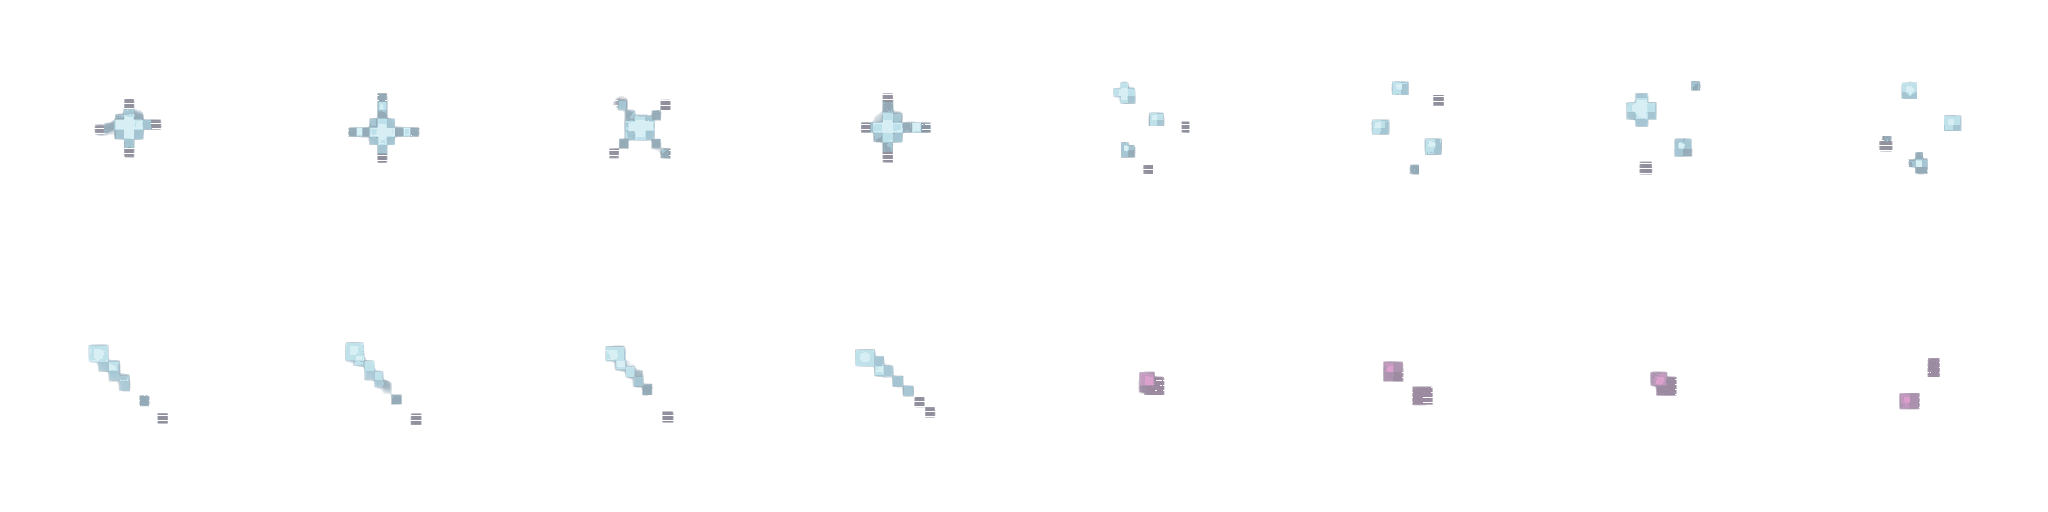
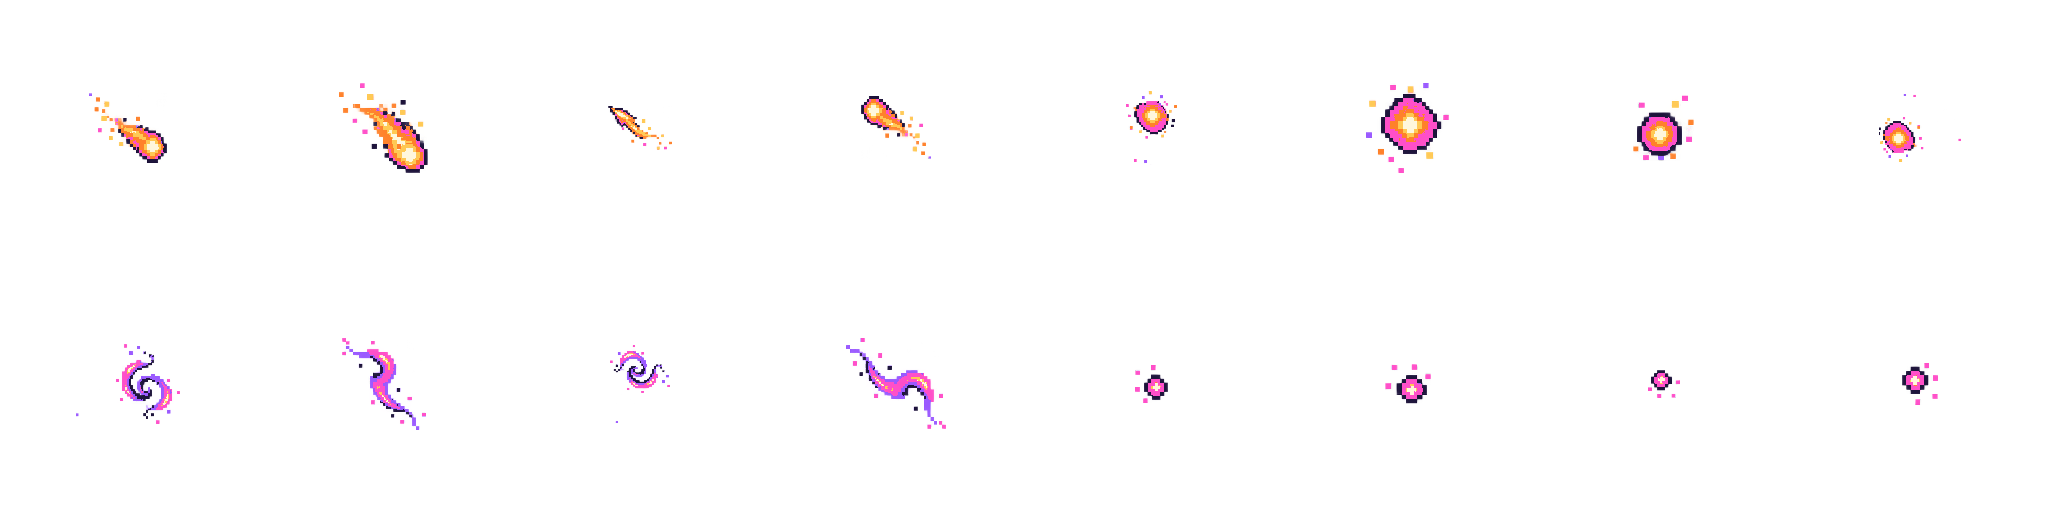
Space solar flare art from Codex (hazard and ambient sheets) replaces the placeholder

diff --git a/Pause/Assets/Art/Weather~/SpaceFlare/src~/build_space_flare.py b/Pause/Assets/Art/Weather~/SpaceFlare/src~/build_space_flare.py
@@ -1,0 +1,270 @@
+#!/usr/bin/env python3
+"""Build the generated/painted Space flare sheets at their gameplay contract.
+
+The source plates in candidates/ are image-generated painted pixel art.  This file
+only does nearest-neighbour pixel cleanup, palette locking, phase animation, cell
+composition, and seam-safe hand placement of additional arcs/sparks.
+"""
+from __future__ import annotations
+
+import math
+import random
+from pathlib import Path
+
+import numpy as np
+from PIL import Image, ImageDraw
+
+
+ROOT = Path(__file__).resolve().parent.parent
+CANDIDATES = Path(__file__).resolve().parent / "candidates"
+N = 512
+LEAD = 400
+AMBIENT_CELL = 256
+
+PALETTE = np.array(
+    [
+        (5, 6, 12),       # ink / deep indigo anchor
+        (26, 16, 56),      # deep indigo shade
+        (153, 87, 255),    # violet
+        (255, 77, 200),    # hot magenta
+        (255, 128, 40),    # orange
+        (255, 200, 82),    # gold
+        (255, 247, 220),   # white-hot
+    ],
+    dtype=np.float32,
+)
+HOT = (255, 247, 220, 255)
+GOLD = (255, 200, 82, 255)
+ORANGE = (255, 128, 40, 255)
+MAGENTA = (255, 77, 200, 255)
+VIOLET = (153, 87, 255, 255)
+INDIGO = (26, 16, 56, 255)
+
+
+def nearest_palette(im: Image.Image) -> Image.Image:
+    """Lock painted RGB to the Space ramp without interpolating pixels."""
+    a = np.array(im.convert("RGBA"), dtype=np.uint8)
+    rgb = a[..., :3].astype(np.float32)
+    # Weight luminance slightly so dark painted contouring survives the remap.
+    d = ((rgb[..., None, :] - PALETTE[None, None, :, :]) ** 2).sum(axis=3)
+    idx = d.argmin(axis=2)
+    out = PALETTE[idx].astype(np.uint8)
+    out[a[..., 3] == 0] = 0
+    out = np.dstack((out, a[..., 3]))
+    return Image.fromarray(out, "RGBA")
+
+
+def nearest_resize(im: Image.Image, size: tuple[int, int]) -> Image.Image:
+    return im.convert("RGBA").resize(size, Image.Resampling.NEAREST)
+
+
+def translate_no_wrap(im: Image.Image, dx: int, dy: int = 0) -> Image.Image:
+    src = np.array(im.convert("RGBA"), dtype=np.uint8)
+    out = np.zeros_like(src)
+    h, w = src.shape[:2]
+    x0, x1 = max(0, dx), min(w, w + dx)
+    sx0, sx1 = max(0, -dx), min(w, w - dx)
+    y0, y1 = max(0, dy), min(h, h + dy)
+    sy0, sy1 = max(0, -dy), min(h, h - dy)
+    if x1 > x0 and y1 > y0:
+        out[y0:y1, x0:x1] = src[sy0:sy1, sx0:sx1]
+    return Image.fromarray(out, "RGBA")
+
+
+def align_lead(im: Image.Image, target: int) -> Image.Image:
+    a = np.array(im, dtype=np.uint8)
+    col = (a[..., 3] > 190).sum(axis=0)
+    # Use the strongest vertical painted edge, not a stray spark.
+    current = int(np.argmax(col)) if col.max() else LEAD
+    return translate_no_wrap(im, target - current)
+
+
+def quantize_alpha(im: Image.Image, cap_tail: bool = True) -> Image.Image:
+    a = np.array(im, dtype=np.uint8)
+    alpha = a[..., 3].astype(np.int16)
+    # Stepped airy transparency; the lead is allowed to remain hard/opaque.
+    steps = np.array([0, 18, 30, 48, 72, 100, 132, 168, 205, 235, 255])
+    alpha = steps[np.abs(alpha[..., None] - steps[None, :]).argmin(axis=2)]
+    if cap_tail:
+        alpha[:, :385] = np.minimum(alpha[:, :385], 145)
+    a[..., 3] = alpha.astype(np.uint8)
+    return Image.fromarray(a, "RGBA")
+
+
+def seam(im: Image.Image) -> Image.Image:
+    """Make the one-pixel vertical tile join exact after all drawing."""
+    a = np.array(im.convert("RGBA"), dtype=np.uint8)
+    a[-1] = a[0]
+    return Image.fromarray(a, "RGBA")
+
+
+def wrapped_line(layer: Image.Image, points, fill, width=1):
+    """Draw a polyline in three vertical copies, then crop by the caller."""
+    d = ImageDraw.Draw(layer)
+    for off in (-N, 0, N):
+        d.line([(int(x), int(y + off)) for x, y in points], fill=fill, width=width, joint="curve")
+
+
+def add_painted_accents(base: Image.Image, frame: int, variant: int, warning: bool) -> Image.Image:
+    """Add designed, hard-edged phase accents around the generated plate."""
+    rng = random.Random(9000 + variant * 100 + frame * 17)
+    phase = frame / 6.0
+    lead = LEAD + round(8 * math.sin(2 * math.pi * (phase + .13)))
+    layer = Image.new("RGBA", (N, N * 3), (0, 0, 0, 0))
+
+    # Long looping magnetic arcs carry the motion through the whole seamless band.
+    arc_count = 7 if warning else (13 if variant == 0 else 17)
+    for i in range(arc_count):
+        y0 = (i + .37) * N / arc_count + rng.uniform(-10, 10)
+        length = rng.uniform(125, 285) if variant == 0 else rng.uniform(110, 230)
+        amp = rng.uniform(9, 25) * (1.0 if variant == 0 else .72)
+        freq = rng.choice((1.0, 1.5, 2.0, 2.5))
+        curl = rng.choice((-1.0, 1.0))
+        pts = []
+        for s in range(0, int(length) + 2, 3):
+            x = lead - s
+            y = y0 + amp * math.sin(2 * math.pi * (freq * s / max(length, 1) + phase * curl + i * .11))
+            pts.append((x, y % N))
+        if warning:
+            color = (255, 77, 200, 86 if i % 2 else 112)
+            width = 1
+        elif s < 70:
+            color = (255, 200, 82, 176)
+            width = 2
+        else:
+            color = ((255, 77, 200, 130) if i % 2 else (153, 87, 255, 112))
+            width = 2 if i % 3 else 1
+        wrapped_line(layer, pts, color, width)
+
+    # Flame-lick hooks immediately behind the shock sheet.
+    hooks = 3 if warning else (8 if variant == 0 else 11)
+    for i in range(hooks):
+        y0 = (i + .25) * N / hooks
+        pts = []
+        for s in range(0, 74 if variant == 0 else 58, 2):
+            x = lead - s
+            y = y0 + (10 + 5 * math.sin(i)) * math.sin(2 * math.pi * (s / 72 + phase + i * .15))
+            pts.append((x, y % N))
+        wrapped_line(layer, pts, (255, 128, 40, 130 if warning else 210), 2 if not warning else 1)
+
+    # A few stepped heat ripples in the air ahead of the front.
+    ripple_count = 2 if warning else 4
+    for i in range(ripple_count):
+        y0 = (i + .5) * N / ripple_count
+        pts = []
+        for s in range(0, 90, 4):
+            x = lead + 7 + s
+            y = y0 + 3 * math.sin(2 * math.pi * (s / 46 + phase + i * .4))
+            pts.append((x, y % N))
+        wrapped_line(layer, pts, (255, 247, 220, 48 if warning else 72), 1)
+
+    # Core: the only deliberately opaque feature in a normal frame.
+    pts = []
+    for y in range(0, N + 1, 3):
+        x = lead + 7 * math.sin(2 * math.pi * (y / N * 2 + phase))
+        pts.append((x, y % N))
+    if warning:
+        wrapped_line(layer, pts, (255, 247, 220, 105), 1)
+        wrapped_line(layer, [(x - 3, y) for x, y in pts], (255, 128, 40, 85), 1)
+    else:
+        wrapped_line(layer, [(x + 4, y) for x, y in pts], (255, 200, 82, 205), 4)
+        wrapped_line(layer, pts, HOT, 3 if variant == 0 else 2)
+
+    # Small sparks advance through a complete loop ahead of the shock.
+    spark_count = 10 if warning else (38 if variant == 0 else 27)
+    d = ImageDraw.Draw(layer)
+    for i in range(spark_count):
+        y = (i * 83 + frame * 29 + (i * i * 7)) % N
+        travel = (i * 19 + frame * 31) % 96
+        x = lead + 9 + travel
+        r = 1 if i % 4 else 2
+        alpha = 75 if warning else max(70, 210 - travel * 2)
+        col = (255, 247, 220, alpha) if i % 3 else (255, 200, 82, alpha)
+        for off in (-N, 0, N):
+            if i % 2:
+                d.rectangle((x - r, y + off - r, x + r, y + off + r), fill=col)
+            else:
+                d.point((x, y + off), fill=col)
+                d.point((x - 1, y + off), fill=col)
+                d.point((x, y + off - 1), fill=col)
+
+    # Crop the central wrapped copy and composite without smoothing.
+    accent = layer.crop((0, N, N, N * 2))
+    return Image.alpha_composite(base, accent)
+
+
+def flare_frame(source_name: str, frame: int, variant: int, warning=False) -> Image.Image:
+    src = Image.open(CANDIDATES / source_name).convert("RGBA")
+    src = nearest_resize(src, (N, N))
+    src = nearest_palette(src)
+    src = align_lead(src, LEAD + round(5 * math.sin(2 * math.pi * frame / 6 + variant)))
+    a = np.array(src, dtype=np.uint8)
+    # Keep image-generated tail airy while retaining hard paint at the shock.
+    if warning:
+        a[..., 3] = (a[..., 3].astype(np.float32) * .34).astype(np.uint8)
+    src = Image.fromarray(a, "RGBA")
+    src = add_painted_accents(src, frame, variant, warning)
+    src = quantize_alpha(src, cap_tail=True)
+    if warning:
+        # Warning is intentionally a thin preview, never a filled bar.
+        a = np.array(src, dtype=np.uint8)
+        a[..., 3] = (a[..., 3].astype(np.float32) * .78).astype(np.uint8)
+        src = Image.fromarray(a, "RGBA")
+    return seam(src)
+
+
+def trim_alpha(im: Image.Image) -> Image.Image:
+    a = np.array(im.convert("RGBA"), dtype=np.uint8)
+    ys, xs = np.where(a[..., 3] > 20)
+    if len(xs) == 0:
+        return im
+    return im.crop((int(xs.min()), int(ys.min()), int(xs.max() + 1), int(ys.max() + 1)))
+
+
+def ambient_particle(kind: int, variant: int) -> Image.Image:
+    src = Image.open(CANDIDATES / "ambient_painted.png").convert("RGBA")
+    # The selected generated candidate is a clean 3x3 painterly particle board.
+    boxes = {
+        0: [(170, 210, 520, 520), (520, 210, 900, 520), (850, 190, 1190, 510), (200, 190, 560, 500)],
+        1: [(170, 540, 540, 870), (520, 520, 900, 870), (850, 530, 1190, 870), (250, 520, 610, 860)],
+        2: [(130, 820, 570, 1160), (500, 800, 930, 1160), (140, 820, 570, 1160), (500, 800, 930, 1160)],
+        3: [(850, 820, 1150, 1090), (850, 820, 1150, 1090), (850, 820, 1150, 1090), (850, 820, 1150, 1090)],
+    }
+    piece = trim_alpha(src.crop(boxes[kind][variant]))
+    piece = nearest_palette(piece)
+    piece = piece.transpose([Image.Transpose.FLIP_LEFT_RIGHT, Image.Transpose.ROTATE_90, Image.Transpose.ROTATE_270, Image.Transpose.FLIP_TOP_BOTTOM][variant])
+    target = {0: [78, 90, 64, 70], 1: [74, 90, 66, 82], 2: [104, 92, 78, 100], 3: [38, 46, 32, 42]}[kind][variant]
+    scale = target / max(piece.size)
+    size = (max(1, round(piece.width * scale)), max(1, round(piece.height * scale)))
+    piece = nearest_resize(piece, size)
+    cell = Image.new("RGBA", (AMBIENT_CELL, AMBIENT_CELL), (0, 0, 0, 0))
+    cell.alpha_composite(piece, ((AMBIENT_CELL - piece.width) // 2, (AMBIENT_CELL - piece.height) // 2))
+    return seam(cell)
+
+
+def build_hazard():
+    sheet = Image.new("RGBA", (N * 6, N * 3), (0, 0, 0, 0))
+    for variant, source in enumerate(("flare_wide_painted.png", "flare_slim_painted.png")):
+        for frame in range(6):
+            sheet.alpha_composite(flare_frame(source, frame, variant), (frame * N, variant * N))
+        for frame in range(2):
+            sheet.alpha_composite(flare_frame(source, frame * 3 + 1, variant, warning=True), ((variant * 2 + frame) * N, N * 2))
+    sheet.save(ROOT / "hazard.png")
+
+
+def build_ambient():
+    sheet = Image.new("RGBA", (AMBIENT_CELL * 8, AMBIENT_CELL * 2), (0, 0, 0, 0))
+    for index in range(16):
+        kind, variant = divmod(index, 4)
+        cell = ambient_particle(kind, variant)
+        x = (index % 8) * AMBIENT_CELL
+        y = (index // 8) * AMBIENT_CELL
+        sheet.alpha_composite(cell, (x, y))
+    sheet.save(ROOT / "ambient.png")
+
+
+if __name__ == "__main__":
+    build_hazard()
+    build_ambient()
+    print("wrote", ROOT / "hazard.png")
+    print("wrote", ROOT / "ambient.png")

diff --git a/Pause/Assets/Art/Weather~/SpaceFlare/src~/NOTES.md b/Pause/Assets/Art/Weather~/SpaceFlare/src~/NOTES.md
@@ -1,0 +1,9 @@
+# SpaceFlare build notes
+
+- `candidates/flare_wide_painted.png` and `candidates/flare_slim_painted.png` are the selected transparent image-generated painted source plates. The wide plate supplies flare A; the slimmer filament plate supplies flare B.
+- `candidates/ambient_painted.png` is the selected image-generated particle board. Its painted sparks, motes, wisps, and mote variants are cropped and nearest-neighbour cleaned into the 16 ambient cells.
+- `build_space_flare.py` performs nearest-neighbour resizing only, locks RGB to the Space ramp, adds hand-placed phase accents, wraps vertical paths, closes the one-pixel tile seam, and composes the requested atlas layout.
+- `hazard.png` row 0 is the six-frame wide loop, row 1 the six-frame slim loop, and row 2 contains A warnings in cells 0–1 and B warnings in cells 2–3. Cells 4–5 are transparent.
+- `ambient.png` is row-major by particle kind: four solar sparks, four plasma motes, four filament wisps, four tiny magenta motes.
+
+The built-in verifier is the authoritative contract check. The preview is diagnostic only and is left beside the deliverables for review.
